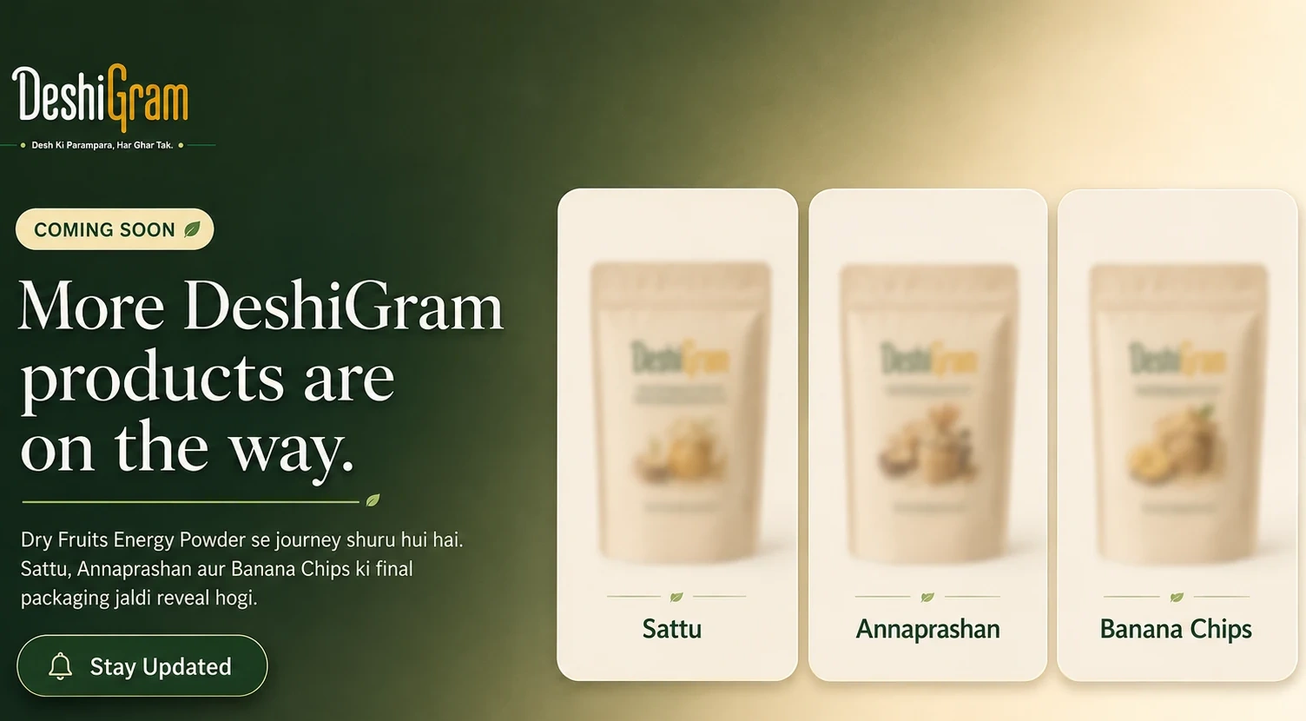
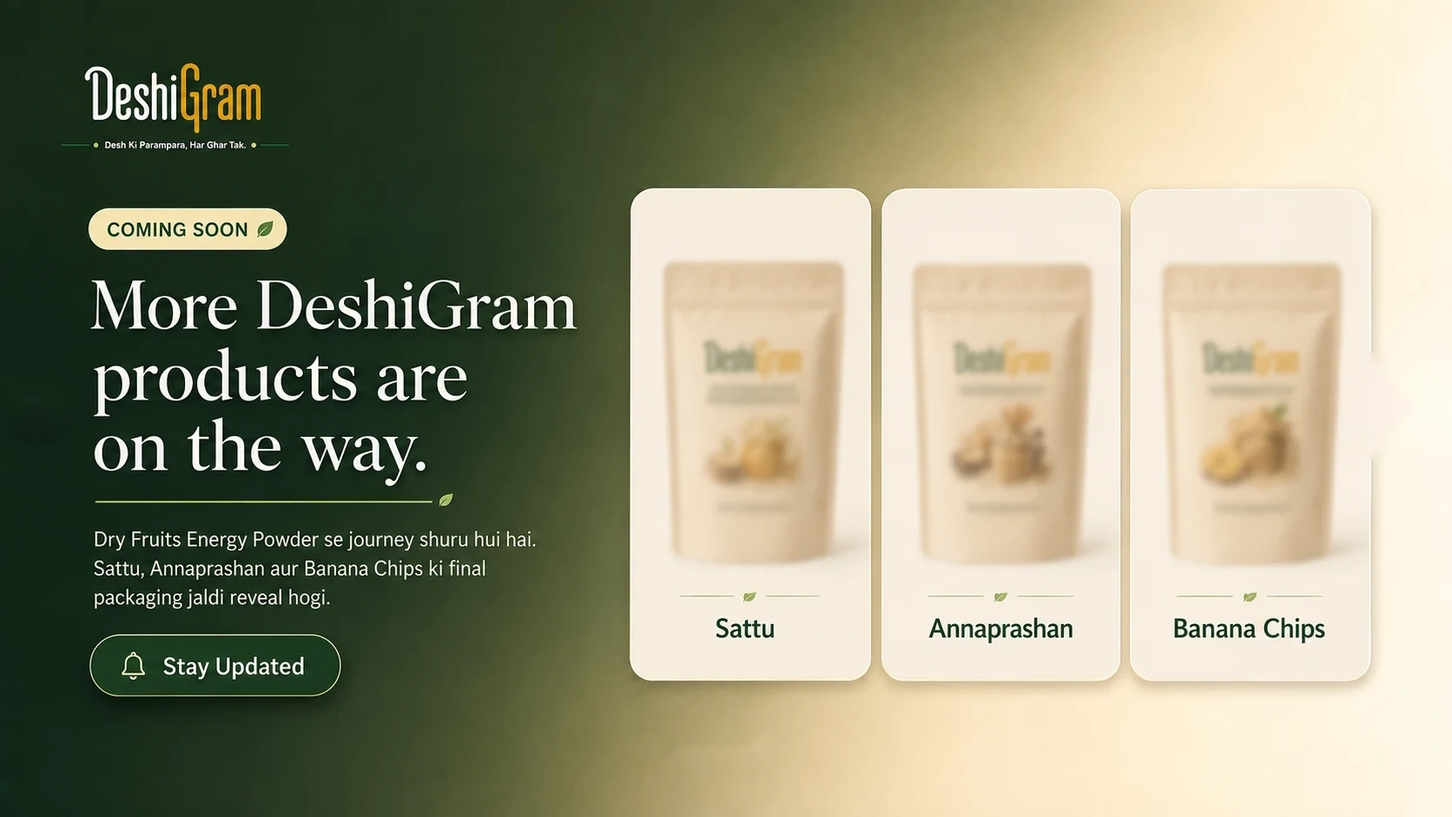
Add files via upload
Updated Private Admin Dashboard ZIP

diff --git a/admin.html b/admin.html
@@ -1,8 +1,69 @@
-<!doctype html><html lang="en"><head><meta charset="utf-8"><meta name="viewport" content="width=device-width,initial-scale=1"><meta name="robots" content="noindex,nofollow"><meta name="theme-color" content="#0d4d35"><title>DeshiGram Admin Dashboard</title><link rel="icon" href="images/favicon.png"><link rel="manifest" href="manifest.webmanifest"><link rel="stylesheet" href="css/admin.css"></head><body class="admin-body"><div class="admin-shell"><div class="admin-top"><div class="admin-brand"><img src="images/logo.webp" alt="DeshiGram"><div><h1>DeshiGram Dashboard</h1><p>Private business overview</p></div></div><div><button id="refreshBtn" class="admin-btn secondary hidden" type="button">Refresh</button> <button id="logoutBtn" class="admin-btn hidden" type="button">Log out</button></div></div>
+<!doctype html><html lang="en"><head><meta charset="utf-8"><meta name="viewport" content="width=device-width,initial-scale=1"><meta name="robots" content="noindex,nofollow"><meta name="theme-color" content="#0d4d35"><title>DeshiGram Admin Dashboard</title><link rel="icon" href="images/favicon.png"><link rel="manifest" href="manifest.webmanifest"><link rel="stylesheet" href="css/admin.css"></head><body class="admin-body"><div class="admin-shell"><div class="admin-top"><div class="admin-brand"><div><h1>DeshiGram Admin</h1><p>Private business overview</p></div></div><div><button id="refreshBtn" class="admin-btn secondary hidden" type="button">Refresh</button> <button id="logoutBtn" class="admin-btn hidden" type="button">Log out</button></div></div>
 <section id="loginBox" class="login-card"><h2>Admin Login</h2><p>Sign in with the DeshiGram admin account to view visitors, orders, sales and reviews.</p><form id="adminLoginForm"><div class="admin-field"><label>Email</label><input id="adminEmail" type="email" value="deshigramofficial@gmail.com" autocomplete="username" required></div><div class="admin-field"><label>Password</label><input id="adminPassword" type="password" autocomplete="current-password" required></div><button class="admin-btn" type="submit" style="width:100%">Open Dashboard</button><div id="loginMessage" class="admin-message"></div></form></section>
-<section id="dashboard" class="dashboard"><div class="metrics"><div class="metric"><span>Total Visitors</span><strong id="visitorsTotal">0</strong></div><div class="metric"><span>Visitors Today</span><strong id="visitorsToday">0</strong></div><div class="metric"><span>This Month</span><strong id="visitorsMonth">0</strong></div><div class="metric"><span>Total Page Views</span><strong id="pageviewsTotal">0</strong></div><div class="metric"><span>Total Orders</span><strong id="ordersTotal">0</strong></div><div class="metric"><span>Orders Today</span><strong id="ordersToday">0</strong></div><div class="metric"><span>Total Sales</span><strong id="salesTotal">₹0</strong></div><div class="metric"><span>Reviews</span><strong id="reviewsTotal">0</strong></div><div class="metric"><span>Average Rating</span><strong id="avgRating">0.0 ★</strong></div></div>
-<div class="admin-grid"><div class="panel"><h2>Latest Orders</h2><div class="table-wrap"><table><thead><tr><th>Order</th><th>Customer</th><th>Phone</th><th>Product</th><th>Qty</th><th>Total</th><th>Payment</th><th>Status</th><th>Date</th></tr></thead><tbody id="ordersBody"></tbody></table></div></div><div class="panel"><h2>Latest Reviews</h2><div id="reviewList"></div></div></div>
-<section class="panel order-history-panel"><div class="history-head"><div><span class="admin-eyebrow">ORDER MANAGEMENT</span><h2>Complete Order History</h2><p>Search orders, update payment/order status and keep courier tracking ready.</p></div><div class="history-controls"><input id="orderSearch" type="search" placeholder="Order ID, customer, phone, product…"><select id="orderStatusFilter"><option value="">All statuses</option><option value="placed">Placed</option><option value="confirmed">Confirmed</option><option value="packed">Packed</option><option value="shipped">Shipped</option><option value="delivered">Delivered</option><option value="cancelled">Cancelled</option></select><button id="orderSearchBtn" class="admin-btn secondary" type="button">Search</button></div></div><div class="history-count" id="historyCount">0 orders</div><div class="table-wrap"><table class="history-table"><thead><tr><th>Order</th><th>Customer</th><th>Products</th><th>Total</th><th>Payment</th><th>Order status</th><th>Courier / AWB</th><th>Date</th><th>Action</th></tr></thead><tbody id="historyBody"></tbody></table></div><div class="history-pagination"><button id="historyPrev" class="admin-btn secondary" type="button">← Previous</button><span id="historyPage">Page 1</span><button id="historyNext" class="admin-btn secondary" type="button">Next →</button></div></section>
+<section id="dashboard" class="dashboard">
+  <div class="admin-dashboard-layout">
+    <aside class="admin-sidebar" aria-label="Admin navigation">
+      <div class="admin-sidebar-title">ADMIN</div>
+      <a class="active" href="#adminOverview">Dashboard</a>
+      <a href="#recentOrdersPanel">Orders</a>
+      <a href="#reviewsPanel">Reviews</a>
+      <a href="#customersPanel">Customers</a>
+      <a href="#reportsPanel">Reports</a>
+      <button id="sidebarLogout" type="button">Log out</button>
+    </aside>
+
+    <div class="admin-dashboard-main">
+      <div id="adminOverview" class="overview-title-row">
+        <div><span class="admin-eyebrow">BUSINESS OVERVIEW</span><h2>Admin Dashboard</h2><p>Your private DeshiGram business overview.</p></div>
+      </div>
+
+      <div class="metrics primary-metrics">
+        <div class="metric"><span>Total Visitors</span><strong id="visitorsTotal">0</strong><small id="visitorsTodayMini">0 today</small></div>
+        <div class="metric"><span>Total Orders</span><strong id="ordersTotal">0</strong><small id="ordersTodayMini">0 today</small></div>
+        <div class="metric"><span>Total Sales</span><strong id="salesTotal">₹0</strong><small>excluding cancelled</small></div>
+        <div class="metric"><span>Total Reviews</span><strong id="reviewsTotal">0</strong><small id="avgRatingMini">0.0 ★ average</small></div>
+      </div>
+
+      <div class="admin-overview-grid">
+        <section class="panel recent-orders-panel" id="recentOrdersPanel">
+          <div class="panel-head"><div><span class="admin-eyebrow">RECENT ACTIVITY</span><h2>Recent Orders</h2></div><a class="panel-link" href="#orderHistory">View all</a></div>
+          <div class="table-wrap"><table class="compact-orders"><thead><tr><th>Order ID</th><th>Customer</th><th>Amount</th><th>Payment</th><th>Status</th><th>Date</th></tr></thead><tbody id="ordersBody"></tbody></table></div>
+        </section>
+
+        <div class="admin-right-stack">
+          <section class="panel sales-panel" id="reportsPanel">
+            <div class="panel-head"><div><span class="admin-eyebrow">RECENT ORDERS</span><h2>Sales Overview</h2></div></div>
+            <div class="sales-chart" id="salesChart" aria-label="Recent sales chart"><svg viewBox="0 0 360 170" preserveAspectRatio="none"><path class="chart-grid" d="M0 42.5H360M0 85H360M0 127.5H360"></path><polyline id="salesLine" points="0,150 360,150"></polyline></svg></div>
+            <div class="chart-caption"><span>Older</span><strong id="recentSalesTotal">₹0</strong><span>Latest</span></div>
+          </section>
+
+          <section class="panel top-products-panel">
+            <div class="panel-head"><div><span class="admin-eyebrow">RECENT ORDER MIX</span><h2>Top Products</h2></div></div>
+            <div id="topProductsList" class="top-products-list"><p class="admin-note">No orders yet.</p></div>
+          </section>
+        </div>
+      </div>
+
+      <div class="admin-secondary-grid">
+        <section class="panel" id="customersPanel"><div class="panel-head"><div><span class="admin-eyebrow">CUSTOMERS</span><h2>Recent Customers</h2></div></div><div id="customerList" class="customer-list"><p class="admin-note">No customers yet.</p></div></section>
+        <section class="panel" id="reviewsPanel"><div class="panel-head"><div><span class="admin-eyebrow">REVIEWS</span><h2>Latest Reviews</h2></div><div class="mini-kpi"><span>Average</span><strong id="avgRating">0.0 ★</strong></div></div><div id="reviewList"></div></section>
+      </div>
+
+      <div class="secondary-metrics">
+        <div><span>Visitors Today</span><strong id="visitorsToday">0</strong></div>
+        <div><span>This Month</span><strong id="visitorsMonth">0</strong></div>
+        <div><span>Total Page Views</span><strong id="pageviewsTotal">0</strong></div>
+        <div><span>Orders Today</span><strong id="ordersToday">0</strong></div>
+      </div>
+
+      <section class="panel order-history-panel" id="orderHistory">
+        <div class="history-head"><div><span class="admin-eyebrow">ORDER MANAGEMENT</span><h2>Complete Order History</h2><p>Search orders, update payment/order status and keep courier tracking ready.</p></div><div class="history-controls"><input id="orderSearch" type="search" placeholder="Order ID, customer, phone, product…"><select id="orderStatusFilter"><option value="">All statuses</option><option value="placed">Placed</option><option value="confirmed">Confirmed</option><option value="packed">Packed</option><option value="shipped">Shipped</option><option value="delivered">Delivered</option><option value="cancelled">Cancelled</option></select><button id="orderSearchBtn" class="admin-btn secondary" type="button">Search</button></div></div>
+        <div class="history-count" id="historyCount">0 orders</div>
+        <div class="table-wrap"><table class="history-table"><thead><tr><th>Order</th><th>Customer</th><th>Products</th><th>Total</th><th>Payment</th><th>Order status</th><th>Courier / AWB</th><th>Date</th><th>Action</th></tr></thead><tbody id="historyBody"></tbody></table></div>
+        <div class="history-pagination"><button id="historyPrev" class="admin-btn secondary" type="button">← Previous</button><span id="historyPage">Page 1</span><button id="historyNext" class="admin-btn secondary" type="button">Next →</button></div>
+      </section>
+    </div>
+  </div>
 </section></div>
 <div id="orderModal" class="admin-modal hidden"><div class="admin-modal-backdrop" data-close-order></div><div class="admin-modal-card"><button class="admin-modal-close" type="button" data-close-order>×</button><span class="admin-eyebrow">ORDER DETAILS</span><h2 id="modalOrderNumber">Order</h2><div id="modalOrderDetails" class="order-detail-grid"></div><form id="orderUpdateForm"><input type="hidden" id="modalOrderId"><div class="update-grid"><label>Payment status<select id="modalPaymentStatus"><option value="pending">Pending</option><option value="paid">Paid</option><option value="failed">Failed</option><option value="refunded">Refunded</option></select></label><label>Order status<select id="modalOrderStatus"><option value="placed">Placed</option><option value="confirmed">Confirmed</option><option value="packed">Packed</option><option value="shipped">Shipped</option><option value="delivered">Delivered</option><option value="cancelled">Cancelled</option></select></label><label>Courier name<input id="modalCourier" placeholder="e.g. Delhivery"></label><label>AWB / Tracking no.<input id="modalAwb" placeholder="AWB number"></label><label class="wide">Tracking URL<input id="modalTracking" type="url" placeholder="https://..."></label></div><button class="admin-btn" type="submit">Save Order Update</button><p id="orderUpdateMessage" class="admin-message"></p></form></div></div>
 <script src="js/admin.js"></script></body></html>

diff --git a/css/admin.css b/css/admin.css
@@ -3,3 +3,12 @@
 
 /* Complete order history */
 .order-history-panel{margin-top:20px}.history-head{display:flex;justify-content:space-between;align-items:flex-end;gap:18px}.history-head h2{margin:3px 0 5px}.history-head p{margin:0;color:var(--dg-muted);font-size:13px}.admin-eyebrow{font-size:10px;letter-spacing:1.2px;font-weight:900;color:#a87b15}.history-controls{display:flex;gap:8px;flex-wrap:wrap}.history-controls input,.history-controls select,.update-grid input,.update-grid select{min-height:42px;border:1px solid #d7ddd8;border-radius:11px;padding:9px 11px;background:#fff;color:var(--dg-ink);font:inherit}.history-controls input{width:min(320px,55vw)}.history-count{margin:14px 0 8px;color:var(--dg-muted);font-size:12px;font-weight:800}.history-table{min-width:1080px}.history-table td small{display:block;margin-top:4px;color:#7a837d;font-size:11px}.product-cell{max-width:260px;white-space:normal}.admin-btn.tiny{padding:8px 11px;border-radius:9px;font-size:11px}.status-badge{display:inline-block;padding:5px 8px;border-radius:999px;background:#eef1ee;color:#4e5f55;font-size:10px;font-weight:900}.status-badge.paid,.status-badge.delivered,.status-badge.confirmed{background:#e9f7ee;color:#17663c}.status-badge.pending,.status-badge.placed,.status-badge.packed{background:#fff6dd;color:#876314}.status-badge.failed,.status-badge.cancelled{background:#fdebea;color:#a43b35}.status-badge.shipped{background:#eaf1ff;color:#335d9d}.history-pagination{display:flex;justify-content:center;align-items:center;gap:14px;margin-top:16px}.history-pagination span{font-size:12px;font-weight:800;color:var(--dg-muted)}.history-pagination button:disabled{opacity:.45;cursor:not-allowed}.admin-modal{position:fixed;inset:0;z-index:10000;display:grid;place-items:center;padding:20px}.admin-modal-backdrop{position:absolute;inset:0;background:rgba(5,22,15,.58);backdrop-filter:blur(3px)}.admin-modal-card{position:relative;z-index:1;width:min(720px,100%);max-height:90vh;overflow:auto;background:#fff;border-radius:24px;padding:26px;box-shadow:0 30px 80px rgba(0,0,0,.25)}.admin-modal-card h2{font-family:Georgia,serif;font-size:31px;margin:4px 0 18px}.admin-modal-close{position:absolute;right:18px;top:15px;width:38px;height:38px;border:0;border-radius:50%;font-size:25px;background:#f3f4f1;color:var(--dg-green);cursor:pointer}.order-detail-grid{display:grid;grid-template-columns:repeat(2,1fr);gap:10px;margin-bottom:20px}.order-detail-grid>div{padding:14px;border:1px solid #ece6dc;border-radius:14px;background:#fcfaf6}.order-detail-grid span{display:block;font-size:10px;text-transform:uppercase;color:#7b847f;font-weight:800}.order-detail-grid strong{display:block;margin:5px 0;color:var(--dg-green)}.order-detail-grid small{color:#6d7771;line-height:1.4}.update-grid{display:grid;grid-template-columns:1fr 1fr;gap:12px;margin-bottom:15px}.update-grid label{font-size:12px;font-weight:800}.update-grid input,.update-grid select{display:block;width:100%;margin-top:6px}.update-grid .wide{grid-column:1/-1}.modal-open{overflow:hidden}@media(max-width:760px){.history-head{align-items:stretch;flex-direction:column}.history-controls{display:grid;grid-template-columns:1fr 1fr}.history-controls input{width:100%;grid-column:1/-1}.order-detail-grid,.update-grid{grid-template-columns:1fr}.update-grid .wide{grid-column:auto}.admin-modal-card{padding:22px 17px}.history-pagination{justify-content:space-between}}
+
+/* Private owner dashboard layout - no brand artwork/logo */
+.admin-brand{display:block}.admin-brand img{display:none!important}.admin-dashboard-layout{display:grid;grid-template-columns:190px minmax(0,1fr);gap:18px;align-items:start}.admin-dashboard-main{min-width:0}.admin-sidebar{position:sticky;top:18px;display:flex;flex-direction:column;gap:7px;padding:18px 12px;border-radius:22px;background:linear-gradient(180deg,#0d4d35,#083b2a);box-shadow:0 14px 36px rgba(13,77,53,.16);min-height:420px}.admin-sidebar-title{padding:4px 10px 14px;color:#f2d88d;font-weight:900;letter-spacing:1.6px;font-size:12px}.admin-sidebar a,.admin-sidebar button{width:100%;border:0;border-radius:11px;padding:11px 12px;background:transparent;color:#eef7f2;text-align:left;text-decoration:none;font:inherit;font-size:13px;font-weight:750;cursor:pointer}.admin-sidebar a:hover,.admin-sidebar a.active,.admin-sidebar button:hover{background:rgba(255,255,255,.13)}.admin-sidebar button{margin-top:auto;color:#ffd6cf}.admin-top{padding:2px 4px}.admin-brand h1{font-size:28px}.dashboard .metrics{margin-top:0}
+@media(max-width:800px){.admin-dashboard-layout{grid-template-columns:1fr}.admin-sidebar{position:static;min-height:0;flex-direction:row;align-items:center;overflow:auto;padding:10px;border-radius:16px}.admin-sidebar-title{display:none}.admin-sidebar a,.admin-sidebar button{width:auto;white-space:nowrap;margin:0;padding:9px 12px}.admin-sidebar button{margin-left:auto}.admin-brand h1{font-size:22px}}
+
+/* Screenshot-style private owner dashboard */
+.overview-title-row{display:flex;justify-content:space-between;align-items:end;margin:4px 0 16px}.overview-title-row h2{font-family:Georgia,serif;font-size:30px;margin:3px 0 4px}.overview-title-row p{margin:0;color:var(--dg-muted);font-size:13px}.primary-metrics{grid-template-columns:repeat(4,minmax(0,1fr));margin:0 0 18px}.metric small{display:block;margin-top:7px;color:#4f8a65;font-size:11px;font-weight:700}.admin-overview-grid{display:grid;grid-template-columns:minmax(0,1.55fr) minmax(280px,.65fr);gap:18px;align-items:start}.admin-right-stack{display:grid;gap:18px}.panel-head{display:flex;align-items:flex-start;justify-content:space-between;gap:16px;margin-bottom:14px}.panel-head h2{margin:2px 0 0}.panel-link{color:var(--dg-green2);text-decoration:none;font-weight:800;font-size:12px}.compact-orders{min-width:670px}.sales-panel{padding-bottom:16px}.sales-chart{height:170px;border-radius:14px;background:linear-gradient(180deg,#fbfdfb,#f5f8f5);border:1px solid #edf1ed;overflow:hidden}.sales-chart svg{width:100%;height:100%;display:block}.chart-grid{fill:none;stroke:#e6ece7;stroke-width:1}.sales-chart polyline{fill:none;stroke:var(--dg-green2);stroke-width:4;stroke-linecap:round;stroke-linejoin:round;vector-effect:non-scaling-stroke}.chart-caption{display:flex;align-items:center;justify-content:space-between;margin-top:9px;color:var(--dg-muted);font-size:10px}.chart-caption strong{color:var(--dg-green);font-size:14px}.top-products-list{display:grid;gap:10px}.top-product-row{display:flex;align-items:center;justify-content:space-between;gap:14px;padding:10px 12px;border-radius:12px;background:#f8faf8}.top-product-row b{font-size:13px}.top-product-row span{min-width:30px;height:30px;display:grid;place-items:center;border-radius:10px;background:#e7f2ea;color:var(--dg-green);font-weight:900;font-size:12px}.admin-secondary-grid{display:grid;grid-template-columns:.8fr 1.2fr;gap:18px;margin-top:18px}.customer-list{display:grid;gap:8px}.customer-row{display:grid;grid-template-columns:38px 1fr auto;align-items:center;gap:10px;padding:10px 0;border-bottom:1px solid #eee8dd}.customer-row:last-child{border-bottom:0}.customer-avatar{width:38px;height:38px;border-radius:50%;display:grid;place-items:center;background:#eaf4ed;color:var(--dg-green);font-weight:900;font-size:12px}.customer-row b{display:block;font-size:13px}.customer-row small{color:var(--dg-muted);font-size:11px}.customer-row em{font-style:normal;color:var(--dg-muted);font-size:11px}.mini-kpi{text-align:right}.mini-kpi span{display:block;color:var(--dg-muted);font-size:10px;text-transform:uppercase}.mini-kpi strong{color:var(--dg-green);font-size:18px}.secondary-metrics{display:grid;grid-template-columns:repeat(4,1fr);gap:10px;margin-top:18px}.secondary-metrics>div{display:flex;align-items:center;justify-content:space-between;gap:14px;padding:13px 15px;border:1px solid #e7e1d7;border-radius:14px;background:rgba(255,255,255,.78)}.secondary-metrics span{color:var(--dg-muted);font-size:11px;font-weight:700}.secondary-metrics strong{color:var(--dg-green);font-size:18px}
+@media(max-width:1050px){.primary-metrics{grid-template-columns:repeat(2,1fr)}.admin-overview-grid,.admin-secondary-grid{grid-template-columns:1fr}.secondary-metrics{grid-template-columns:repeat(2,1fr)}}
+@media(max-width:620px){.primary-metrics{grid-template-columns:1fr 1fr}.secondary-metrics{grid-template-columns:1fr 1fr}.overview-title-row h2{font-size:25px}.admin-overview-grid{gap:12px}.panel{border-radius:17px;padding:15px}.metric strong{font-size:25px}}

diff --git a/js/admin.js b/js/admin.js
@@ -39,8 +39,28 @@
   function renderStats(d){
     put('visitorsTotal',d.visitors_total||0);put('visitorsToday',d.visitors_today||0);put('visitorsMonth',d.visitors_month||0);put('pageviewsTotal',d.pageviews_total||0);
     put('ordersTotal',d.orders_total||0);put('ordersToday',d.orders_today||0);put('salesTotal',rupees(d.sales_total));put('reviewsTotal',d.reviews_total||0);put('avgRating',`${Number(d.average_rating||0).toFixed(1)} ★`);
+    put('visitorsTodayMini',`${d.visitors_today||0} today`);put('ordersTodayMini',`${d.orders_today||0} today`);put('avgRatingMini',`${Number(d.average_rating||0).toFixed(1)} ★ average`);
+    const recent=d.latest_orders||[];
     const orders=document.getElementById('ordersBody');
-    orders.innerHTML=(d.latest_orders||[]).map(o=>`<tr><td><strong>${esc(o.order_number)}</strong></td><td>${esc(o.customer_name)}</td><td>${esc(o.phone)}</td><td>${esc(o.product_name)}</td><td>${esc(o.quantity)}</td><td>${rupees(o.total_amount)}</td><td>${badge(o.payment_status,'payment')}</td><td>${badge(o.order_status)}</td><td>${date(o.created_at)}</td></tr>`).join('')||'<tr><td colspan="9">No orders yet.</td></tr>';
+    orders.innerHTML=recent.map(o=>`<tr><td><strong>${esc(o.order_number)}</strong></td><td>${esc(o.customer_name)}</td><td>${rupees(o.total_amount)}</td><td>${badge(o.payment_status,'payment')}</td><td>${badge(o.order_status)}</td><td>${date(o.created_at)}</td></tr>`).join('')||'<tr><td colspan="6">No orders yet.</td></tr>';
+
+    const vals=recent.slice().reverse().map(o=>Number(o.total_amount||0));
+    const line=document.getElementById('salesLine');
+    if(line){
+      if(vals.length<2){line.setAttribute('points','0,145 360,145');}
+      else{const max=Math.max(...vals,1),min=Math.min(...vals,0),range=Math.max(max-min,1);const pts=vals.map((v,i)=>`${(i/(vals.length-1)*360).toFixed(1)},${(145-((v-min)/range)*120).toFixed(1)}`).join(' ');line.setAttribute('points',pts);}
+    }
+    put('recentSalesTotal',rupees(vals.reduce((a,b)=>a+b,0)));
+
+    const productCounts={}; recent.forEach(o=>{const n=o.product_name||'Product';productCounts[n]=(productCounts[n]||0)+Number(o.quantity||1)});
+    const top=Object.entries(productCounts).sort((a,b)=>b[1]-a[1]).slice(0,5);
+    const topBox=document.getElementById('topProductsList');
+    if(topBox) topBox.innerHTML=top.map(([name,count])=>`<div class="top-product-row"><b>${esc(name)}</b><span>${count}</span></div>`).join('')||'<p class="admin-note">No orders yet.</p>';
+
+    const seen=new Set(); const customers=[]; recent.forEach(o=>{const key=(o.phone||o.customer_name||'').toLowerCase();if(key&&!seen.has(key)){seen.add(key);customers.push(o)}});
+    const customerBox=document.getElementById('customerList');
+    if(customerBox) customerBox.innerHTML=customers.slice(0,6).map(o=>{const initials=String(o.customer_name||'C').trim().split(/\s+/).slice(0,2).map(x=>x[0]).join('').toUpperCase();return `<div class="customer-row"><span class="customer-avatar">${esc(initials)}</span><div><b>${esc(o.customer_name||'Customer')}</b><small>${esc(o.phone||'')}</small></div><em>${esc(o.order_number||'')}</em></div>`}).join('')||'<p class="admin-note">No customers yet.</p>';
+
     const reviews=document.getElementById('reviewList');
     reviews.innerHTML=(d.latest_reviews||[]).map(r=>`<div class="review-row"><b><span>${esc(r.name||'Customer')} ${r.verified?'<span class="verified">Verified</span>':''}</span><span class="stars">${'★'.repeat(Math.max(1,Math.min(5,Math.round(Number(r.rating||0)))))} ${Number(r.rating||0).toFixed(1)}</span></b><p>${esc(r.review||'Rating submitted.')}</p></div>`).join('')||'<p class="admin-note">No reviews yet.</p>';
   }
@@ -81,7 +101,7 @@
     catch(e){clearSession();loginBox.classList.remove('hidden');dashboard.style.display='none';logout.classList.add('hidden');refresh.classList.add('hidden');msg.textContent=e.message.includes('Not authorized')?'This account is not authorized for the DeshiGram dashboard.':'';}
   }
   document.getElementById('adminLoginForm').addEventListener('submit',async e=>{e.preventDefault();msg.textContent='Signing in...';try{const s=await login(document.getElementById('adminEmail').value.trim(),document.getElementById('adminPassword').value);saveSession(s);msg.textContent='';await load();}catch(err){msg.textContent=err.message;}});
-  logout.addEventListener('click',()=>{clearSession();location.reload()});refresh.addEventListener('click',load);
+  logout.addEventListener('click',()=>{clearSession();location.reload()});document.getElementById('sidebarLogout')?.addEventListener('click',()=>{clearSession();location.reload()});refresh.addEventListener('click',load);
   document.getElementById('orderSearchBtn')?.addEventListener('click',()=>{page=0;loadHistory();});
   document.getElementById('orderSearch')?.addEventListener('keydown',e=>{if(e.key==='Enter'){e.preventDefault();page=0;loadHistory();}});
   document.getElementById('orderStatusFilter')?.addEventListener('change',()=>{page=0;loadHistory();});

diff --git a/products.html b/products.html
@@ -12,7 +12,7 @@
 </head>
 <body>
 <div class="announcement-bar">Available Now • Dry Fruits Energy Powder • 30% Off MRP</div>
-<header class="header"><div class="container navbar"><a class="brand" href="index.html"><img src="images/logo.webp" alt="DeshiGram Logo"><div><span class="brand-name">DeshiGram</span><span class="brand-tagline">Desh Ki Parampara, Har Ghar Tak</span></div></a><div class="site-search" id="siteSearch"><button class="search-toggle" id="searchToggle" type="button" aria-label="Search products" aria-expanded="false"><svg viewBox="0 0 24 24" aria-hidden="true"><path d="m21 21-4.35-4.35m2.35-5.65a8 8 0 1 1-16 0 8 8 0 0 1 16 0Z"></path></svg></button><div class="search-panel" id="searchPanel"><input id="productSearchInput" type="search" placeholder="Search products..." autocomplete="off"><div class="search-results" id="searchResults"></div></div></div><button class="menu-button" id="menuButton" aria-label="Open navigation menu">☰</button><nav class="navigation" id="navigation"><a href="index.html">Home</a><a class="active-link" href="products.html">Products</a><a href="about.html">About Us</a><a href="distributors.html">Distributors</a><a href="policies.html">Policies</a><a href="contact.html">Contact</a><a href="account.html">My Account</a></nav></div></header>
+<header class="header"><div class="container navbar"><a class="brand" href="index.html"><img src="images/logo.webp" alt="DeshiGram Logo"><div><span class="brand-name">DeshiGram</span><span class="brand-tagline">Desh Ki Parampara, Har Ghar Tak</span></div></a><div class="site-search" id="siteSearch"><button class="search-toggle" id="searchToggle" type="button" aria-label="Search products" aria-expanded="false"><svg viewBox="0 0 24 24" aria-hidden="true"><path d="m21 21-4.35-4.35m2.35-5.65a8 8 0 1 1-16 0 8 8 0 0 1 16 0Z"></path></svg></button><div class="search-panel" id="searchPanel"><input id="productSearchInput" type="search" placeholder="Search products..." autocomplete="off"><div class="search-results" id="searchResults"></div></div></div><button class="menu-button" id="menuButton" aria-label="Open navigation menu">☰</button><nav class="navigation" id="navigation"><a href="index.html">Home</a><a class="active-link" href="products.html">Products</a><a href="about.html">About Us</a><a href="distributors.html">Distributors</a><a href="policies.html">Policies</a><a href="contact.html">Contact</a><a href="account.html">Login</a></nav></div></header>
 <main class="dg-products-page">
 <section class="dg-products-hero"><div class="container"><span class="dg-eyebrow">OUR COLLECTION</span><h1>The Dry Fruits Energy Powder range</h1><p>Choose the pack that fits your routine. Each pouch is 100g and currently available at 30% off MRP.</p></div></section>
 <section class="section"><div class="container"><div class="dg-products-grid">
@@ -45,7 +45,7 @@
     </div>
     <div class="footer-column">
       <h3>Explore</h3>
-      <a href="index.html">Home</a><a href="products.html">Products</a><a href="about.html">About Us</a><a href="contact.html">Contact</a><a href="account.html">My Account</a>
+      <a href="index.html">Home</a><a href="products.html">Products</a><a href="about.html">About Us</a><a href="contact.html">Contact</a><a href="account.html">Login</a>
     </div>
     <div class="footer-column">
       <h3>Support</h3>

diff --git a/distributors.html b/distributors.html
@@ -15,7 +15,7 @@
 <meta name="theme-color" content="#0d4d35">
 </head>
 <body>
-<header class="header"><div class="container navbar"><a class="brand" href="index.html"><img src="images/logo.webp" alt="DeshiGram logo"><span><strong>DeshiGram</strong><small class="brand-tagline">Desh ki parampara har ghar tak</small></span></a><button class="menu-button" id="menuButton" aria-label="Open menu">☰</button><nav class="navigation" id="navigation"><a href="index.html">Home</a><a href="products.html">Product</a><a href="about.html">About Us</a><a class="active-link" href="distributors.html">Distributors</a><a href="policies.html">Policies</a><a href="contact.html">Contact</a><a href="account.html">My Account</a></nav></div></header>
+<header class="header"><div class="container navbar"><a class="brand" href="index.html"><img src="images/logo.webp" alt="DeshiGram logo"><span><strong>DeshiGram</strong><small class="brand-tagline">Desh ki parampara har ghar tak</small></span></a><button class="menu-button" id="menuButton" aria-label="Open menu">☰</button><nav class="navigation" id="navigation"><a href="index.html">Home</a><a href="products.html">Product</a><a href="about.html">About Us</a><a class="active-link" href="distributors.html">Distributors</a><a href="policies.html">Policies</a><a href="contact.html">Contact</a><a href="account.html">Login</a></nav></div></header>
 <main class="distributor-page">
 <section class="distributor-hero"><div class="container"><span class="eyebrow">Grow With DeshiGram</span><h1>Become a DeshiGram Distributor</h1><p>Structured onboarding, clear documentation and product-wise commercial terms.</p><div class="distributor-summary"><div><strong>₹25,000</strong><span>Minimum First Order</span></div><div><strong>₹5,000</strong><span>Refundable Security</span></div><div><strong>₹10,000</strong><span>Minimum Repeat Order</span></div><div><strong>Product-wise</strong><span>Distributor Margin</span></div></div></div></section>
 <section class="section"><div class="container"><div class="section-heading compact-heading"><span class="eyebrow">Documents</span><h2>Distributor Documents</h2><p>Application se pehle documents download karke terms ko dhyan se padhein.</p></div><div class="download-card-grid">
@@ -36,7 +36,7 @@
     </div>
     <div class="footer-column">
       <h3>Explore</h3>
-      <a href="index.html">Home</a><a href="products.html">Products</a><a href="about.html">About Us</a><a href="contact.html">Contact</a><a href="account.html">My Account</a>
+      <a href="index.html">Home</a><a href="products.html">Products</a><a href="about.html">About Us</a><a href="contact.html">Contact</a><a href="account.html">Login</a>
     </div>
     <div class="footer-column">
       <h3>Support</h3>

diff --git a/js/script.js b/js/script.js
@@ -166,7 +166,7 @@ document.querySelectorAll('[data-contact-subject]').forEach((link) => {
   });
 });
 
-// DeshiGram customer account indicator in the main navigation.
+// DeshiGram customer login/account indicator.
 (function(){
   function readSupabaseSession(){
     try{
@@ -181,28 +181,24 @@ document.querySelectorAll('[data-contact-subject]').forEach((link) => {
     const name=(user?.user_metadata?.full_name||'').trim();
     if(name) return name.split(/\s+/)[0];
     const phone=(user?.user_metadata?.phone||'').replace(/\D/g,'');
-    return phone ? `••${phone.slice(-4)}` : 'Account';
+    return phone ? `••${phone.slice(-4)}` : 'Customer';
   }
   function applyAccountIndicator(){
-    const nav=document.getElementById('navigation');
-    if(!nav) return;
-    let link=[...nav.querySelectorAll('a')].find(a=>/account\.html(?:$|[?#])/.test(a.getAttribute('href')||''));
-    if(!link){
-      link=document.createElement('a');
-      link.href=location.pathname.includes('/product/')?'../account.html':'account.html';
-      link.textContent='My Account';
-      nav.appendChild(link);
-    }
-    link.classList.add('dg-account-link');
     const s=readSupabaseSession();
-    if(s?.user){
-      link.classList.add('is-logged-in');
-      link.innerHTML=`<span class="dg-account-dot" aria-hidden="true"></span><span>Hi, ${displayName(s)}</span>`;
-      link.setAttribute('aria-label',`My Account, logged in as ${displayName(s)}`);
-    }else{
-      link.classList.remove('is-logged-in');
-      link.textContent='My Account';
-    }
+    const loggedIn=!!s?.user;
+    const links=[...document.querySelectorAll('a[href$="account.html"], a[href*="account.html?"]')];
+    links.forEach(link=>{
+      link.classList.add('dg-account-link');
+      if(loggedIn){
+        link.classList.add('is-logged-in');
+        link.innerHTML=`<span class="dg-account-dot" aria-hidden="true"></span><span>Hi, ${displayName(s)} · My Account</span>`;
+        link.setAttribute('aria-label',`My Account, logged in as ${displayName(s)}`);
+      }else{
+        link.classList.remove('is-logged-in');
+        link.textContent='Login';
+        link.setAttribute('aria-label','Customer Login');
+      }
+    });
   }
   if(document.readyState==='loading') document.addEventListener('DOMContentLoaded',applyAccountIndicator); else applyAccountIndicator();
   window.addEventListener('storage',applyAccountIndicator);

diff --git a/account.html b/account.html
@@ -2,7 +2,7 @@
 <html lang="en"><head><meta charset="UTF-8"><meta name="viewport" content="width=device-width,initial-scale=1.0"><meta name="description" content="DeshiGram customer account and orders."><title>My Account | DeshiGram</title><link rel="icon" type="image/png" href="images/favicon.png?v=3"><link rel="stylesheet" href="css/style.css"><link rel="stylesheet" href="css/account.css">
 <script async src="https://www.googletagmanager.com/gtag/js?id=G-8DCB4RP5XZ"></script><script>window.dataLayer=window.dataLayer||[];function gtag(){dataLayer.push(arguments)}window.gtag=gtag;gtag('js',new Date());gtag('config','G-8DCB4RP5XZ');</script></head>
 <body><div class="announcement-bar">DeshiGram Customer Account • Orders • Verified Reviews</div>
-<header class="header"><div class="container navbar"><a class="brand" href="index.html"><img src="images/logo.webp" alt="DeshiGram Logo"><div><span class="brand-name">DeshiGram</span><span class="brand-tagline">Desh Ki Parampara, Har Ghar Tak</span></div></a><button class="menu-button" id="menuButton" aria-label="Open navigation menu">☰</button><nav class="navigation" id="navigation"><a href="index.html">Home</a><a href="products.html">Products</a><a href="about.html">About Us</a><a href="contact.html">Contact</a><a class="active-link" href="account.html">My Account</a></nav></div></header>
+<header class="header"><div class="container navbar"><a class="brand" href="index.html"><img src="images/logo.webp" alt="DeshiGram Logo"><div><span class="brand-name">DeshiGram</span><span class="brand-tagline">Desh Ki Parampara, Har Ghar Tak</span></div></a><button class="menu-button" id="menuButton" aria-label="Open navigation menu">☰</button><nav class="navigation" id="navigation"><a href="index.html">Home</a><a href="products.html">Products</a><a href="about.html">About Us</a><a href="contact.html">Contact</a><a class="active-link" href="account.html">Login</a></nav></div></header>
 <main class="account-page">
 <section class="account-hero"><div class="container"><span class="dg-eyebrow">MY DESHIGRAM</span><h1>Your orders. Your reviews.</h1><p>Create one simple account using your Customer ID and password. Your 10-digit mobile number works as the Customer ID, so no email or OTP is required.</p></div></section>
 <section class="section"><div class="container">

diff --git a/policies.html b/policies.html
@@ -15,7 +15,7 @@
 <meta name="theme-color" content="#0d4d35">
 </head>
 <body>
-<header class="header"><div class="container navbar"><a class="brand" href="index.html"><img src="images/logo.webp" alt="DeshiGram logo"><span><strong>DeshiGram</strong><small class="brand-tagline">Desh ki parampara har ghar tak</small></span></a><button class="menu-button" id="menuButton" aria-label="Open menu">☰</button><nav class="navigation" id="navigation"><a href="index.html">Home</a><a href="products.html">Product</a><a href="about.html">About Us</a><a href="distributors.html">Distributors</a><a class="active-link" href="policies.html">Policies</a><a href="contact.html">Contact</a><a href="account.html">My Account</a></nav></div></header>
+<header class="header"><div class="container navbar"><a class="brand" href="index.html"><img src="images/logo.webp" alt="DeshiGram logo"><span><strong>DeshiGram</strong><small class="brand-tagline">Desh ki parampara har ghar tak</small></span></a><button class="menu-button" id="menuButton" aria-label="Open menu">☰</button><nav class="navigation" id="navigation"><a href="index.html">Home</a><a href="products.html">Product</a><a href="about.html">About Us</a><a href="distributors.html">Distributors</a><a class="active-link" href="policies.html">Policies</a><a href="contact.html">Contact</a><a href="account.html">Login</a></nav></div></header>
 <main class="policy-page">
 <section class="policy-hero"><div class="container"><span class="eyebrow">Policies & Customer Information</span><h1>DeshiGram Policies</h1><p>Privacy, payment, delivery, returns and website terms in one clear place.</p><div class="policy-brand-note">DeshiGram - a brand of <strong>RK &amp; Sons Group</strong></div></div></section>
 <section class="section"><div class="container policy-layout">
@@ -38,7 +38,7 @@
     </div>
     <div class="footer-column">
       <h3>Explore</h3>
-      <a href="index.html">Home</a><a href="products.html">Products</a><a href="about.html">About Us</a><a href="contact.html">Contact</a><a href="account.html">My Account</a>
+      <a href="index.html">Home</a><a href="products.html">Products</a><a href="about.html">About Us</a><a href="contact.html">Contact</a><a href="account.html">Login</a>
     </div>
     <div class="footer-column">
       <h3>Support</h3>

diff --git a/checkout.html b/checkout.html
@@ -8,7 +8,7 @@
 </head>
 <body>
 <div class="announcement-bar">Secure Checkout • DeshiGram Account Required</div>
-<header class="header"><div class="container navbar"><a class="brand" href="index.html"><img src="images/logo.webp" alt="DeshiGram Logo"><div><span class="brand-name">DeshiGram</span><span class="brand-tagline">Desh Ki Parampara, Har Ghar Tak</span></div></a><nav class="navigation checkout-nav"><a href="products.html">Continue Shopping</a><a href="policies.html">Policies</a><a href="account.html">My Account</a></nav></div></header>
+<header class="header"><div class="container navbar"><a class="brand" href="index.html"><img src="images/logo.webp" alt="DeshiGram Logo"><div><span class="brand-name">DeshiGram</span><span class="brand-tagline">Desh Ki Parampara, Har Ghar Tak</span></div></a><nav class="navigation checkout-nav"><a href="products.html">Continue Shopping</a><a href="policies.html">Policies</a><a href="account.html">Login</a></nav></div></header>
 <main class="checkout-page">
 <section class="checkout-hero"><div class="container"><span class="eyebrow">SECURE CHECKOUT</span><h1>Complete your order.</h1><p>Login is required so your order stays linked to your DeshiGram account and you can leave a verified review later.</p></div></section>
 <section class="checkout-section"><div class="container checkout-grid">

diff --git a/index.html b/index.html
@@ -29,7 +29,7 @@
     </div>
     <button class="menu-button" id="menuButton" aria-label="Open navigation menu">☰</button>
     <nav class="navigation" id="navigation">
-      <a class="active-link" href="index.html">Home</a><a href="products.html">Products</a><a href="about.html">About Us</a><a href="distributors.html">Distributors</a><a href="policies.html">Policies</a><a href="contact.html">Contact</a><a href="account.html">My Account</a>
+      <a class="active-link" href="index.html">Home</a><a href="products.html">Products</a><a href="about.html">About Us</a><a href="distributors.html">Distributors</a><a href="policies.html">Policies</a><a href="contact.html">Contact</a><a href="account.html">Login</a>
     </nav>
   </div>
 </header>
@@ -136,7 +136,7 @@
     </div>
     <div class="footer-column">
       <h3>Explore</h3>
-      <a href="index.html">Home</a><a href="products.html">Products</a><a href="about.html">About Us</a><a href="contact.html">Contact</a><a href="account.html">My Account</a>
+      <a href="index.html">Home</a><a href="products.html">Products</a><a href="about.html">About Us</a><a href="contact.html">Contact</a><a href="account.html">Login</a>
     </div>
     <div class="footer-column">
       <h3>Support</h3>

diff --git a/css/style.css b/css/style.css
@@ -3630,3 +3630,13 @@ html{-webkit-font-smoothing:antialiased;-moz-osx-font-smoothing:grayscale;text-r
 .dg-account-link.is-logged-in{padding:8px 12px!important;border-radius:999px;background:#eef7ef;color:#0d4d35!important;font-weight:800}
 .dg-account-dot{width:8px;height:8px;border-radius:50%;background:#1a9a52;box-shadow:0 0 0 3px rgba(26,154,82,.14)}
 @media(max-width:900px){.dg-account-link.is-logged-in{border-radius:10px;padding:10px 12px!important}}
+
+/* Final requested banner behavior: full artwork, no crop. */
+.dg-showcase-slider{aspect-ratio:1672/941!important;}
+.dg-click-banner img{object-fit:contain!important;object-position:center center!important;width:100%!important;height:100%!important;}
+@media(max-width:760px){.dg-showcase-slider{aspect-ratio:1672/941!important;}}
+/* Click map aligned to the full Coming Soon artwork. */
+.dg-banner-hotspot.hs-update{left:5.8%;top:76.4%;width:17.8%;height:9.3%}
+.dg-banner-hotspot.hs-sattu{left:42.6%;top:22.5%;width:16.8%;height:60.5%}
+.dg-banner-hotspot.hs-annaprashan{left:59.8%;top:22.5%;width:16.6%;height:60.5%}
+.dg-banner-hotspot.hs-banana{left:76.8%;top:22.5%;width:16.8%;height:60.5%}

diff --git a/product/index.html b/product/index.html
@@ -38,7 +38,7 @@
 <div class="site-search" id="siteSearch"><button class="search-toggle" id="searchToggle" type="button" aria-label="Search products" aria-expanded="false"><svg viewBox="0 0 24 24" aria-hidden="true"><path d="m21 21-4.35-4.35m2.35-5.65a8 8 0 1 1-16 0 8 8 0 0 1 16 0Z"/></svg></button><div class="search-panel" id="searchPanel"><label class="sr-only" for="productSearchInput">Search products</label><input id="productSearchInput" type="search" placeholder="Search products..." autocomplete="off"><div class="search-results" id="searchResults"></div></div></div>
 <button class="menu-button" id="menuButton" aria-label="Open navigation menu">☰</button>
 <nav class="navigation" id="navigation"><a href="index.html">Home</a><a href="products.html">Products</a><a href="about.html">About Us</a><a href="contact.html">Contact</a><a href="distributors.html">Distributors</a>
-<a href="policies.html">Policies</a><a href="account.html">My Account</a>
+<a href="policies.html">Policies</a><a href="account.html">Login</a>
 </nav>
 </div></header>
 <main>
